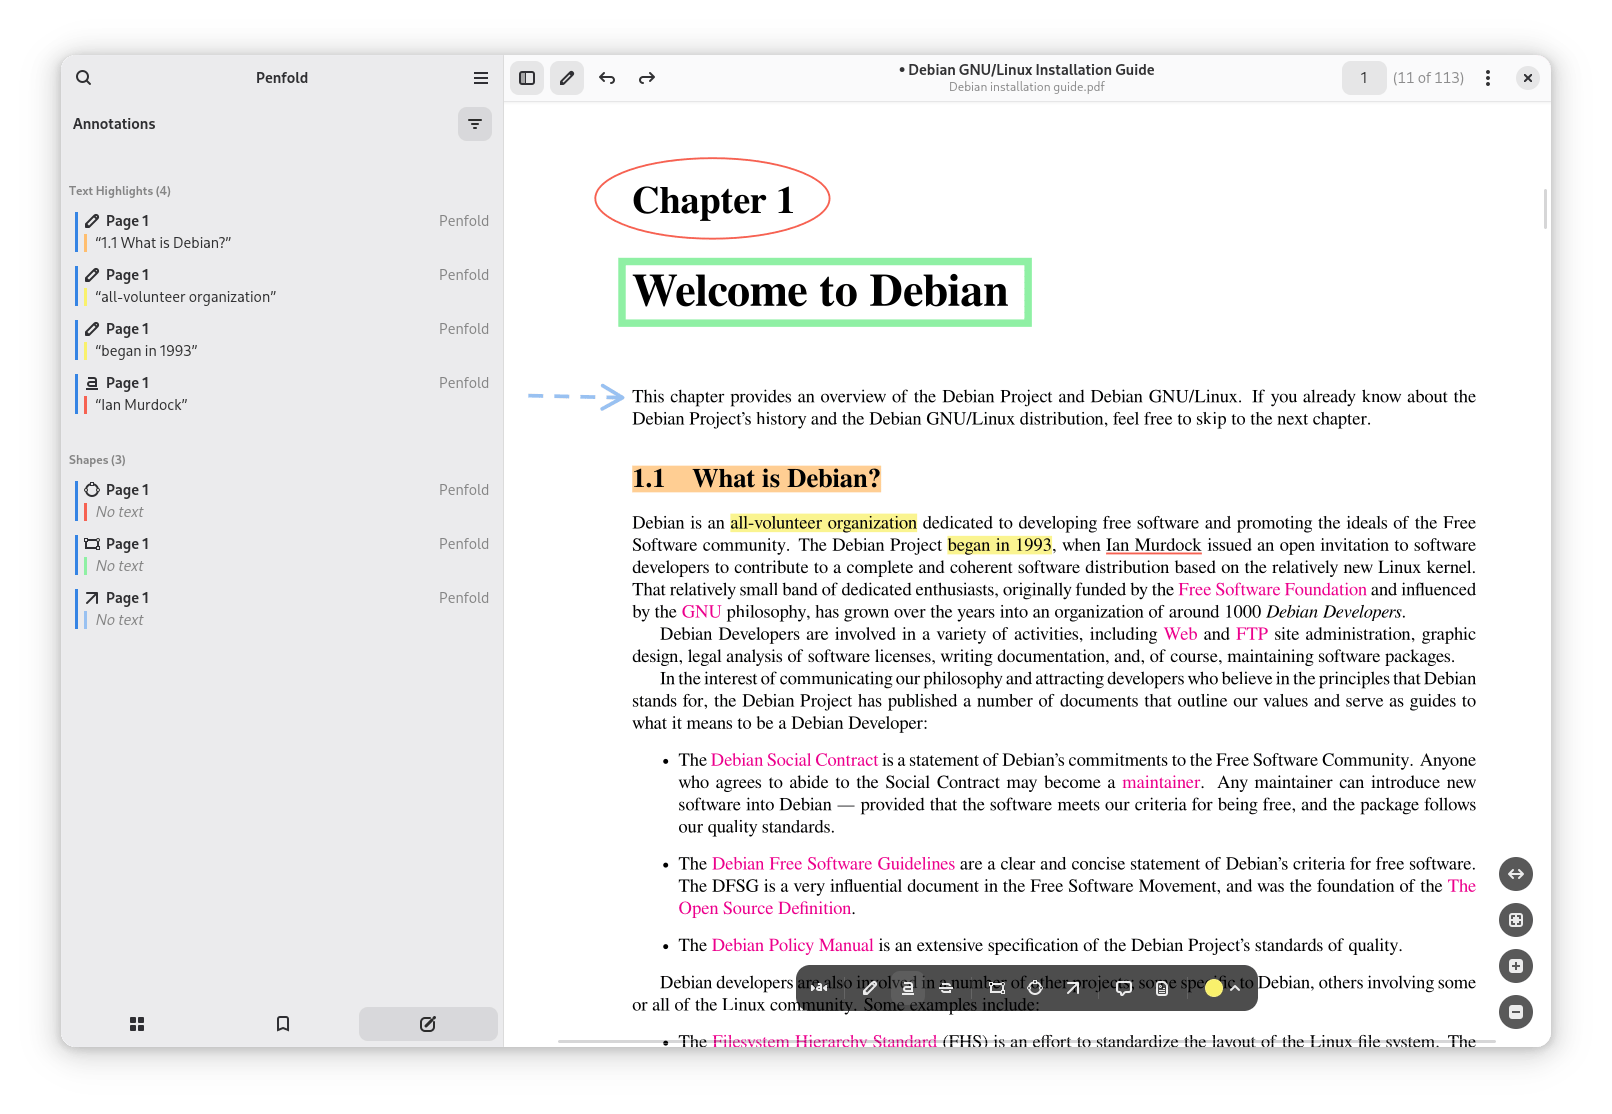
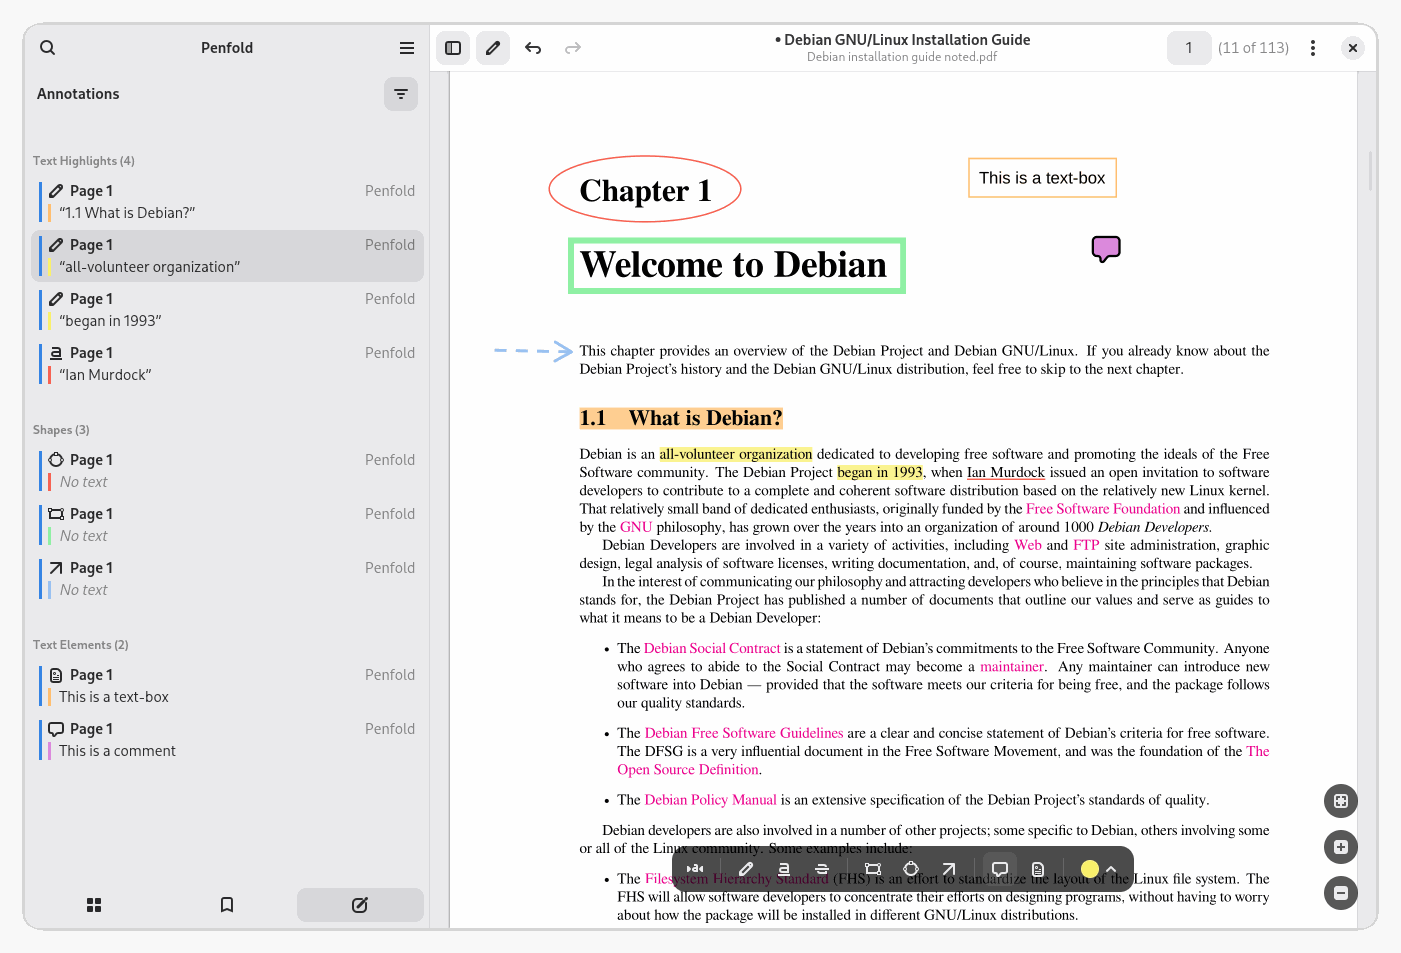
Add a Support Penfold section to the README, with a new screenshot
A Ko-fi button between Notes and License, a new annotations screenshot,
and the start screen shown at half the width.

diff --git a/README.md b/README.md
@@ -10,7 +10,7 @@ I made it because I wanted a single, simple, free-licensed tool that lets me do 
 files on my personal computer over quite a few years.
 
 <p align="center">
-  <img src="docs/images/start_screen.png" width="90%" alt="Penfold's start screen">
+  <img src="docs/images/start_screen.png" width="50%" alt="Penfold's start screen">
 </p>
 
 ## Features
@@ -94,6 +94,17 @@ Translations are welcome: open an [issue](https://github.com/ibanurq/penfold/iss
   following the workflow we use there, and the result was satisfactory: merging several files with text, images and
   drawings, into a final file of 50–60 MB and about 800 pages.
 - Thanks to the whole free software community. Penfold would not have been possible without it.
+
+## Support Penfold
+
+Penfold is free of charge and will stay that way. If you find it useful and would like to support its development, you
+can buy me a coffee:
+
+<p align="center">
+  <a href="https://ko-fi.com/ibanurq"><img src="https://ko-fi.com/img/githubbutton_sm.svg" alt="Support Penfold on Ko-fi"></a>
+</p>
+
+You can also help by reporting bugs, suggesting improvements or translating the app into your language.
 
 ## License
 
